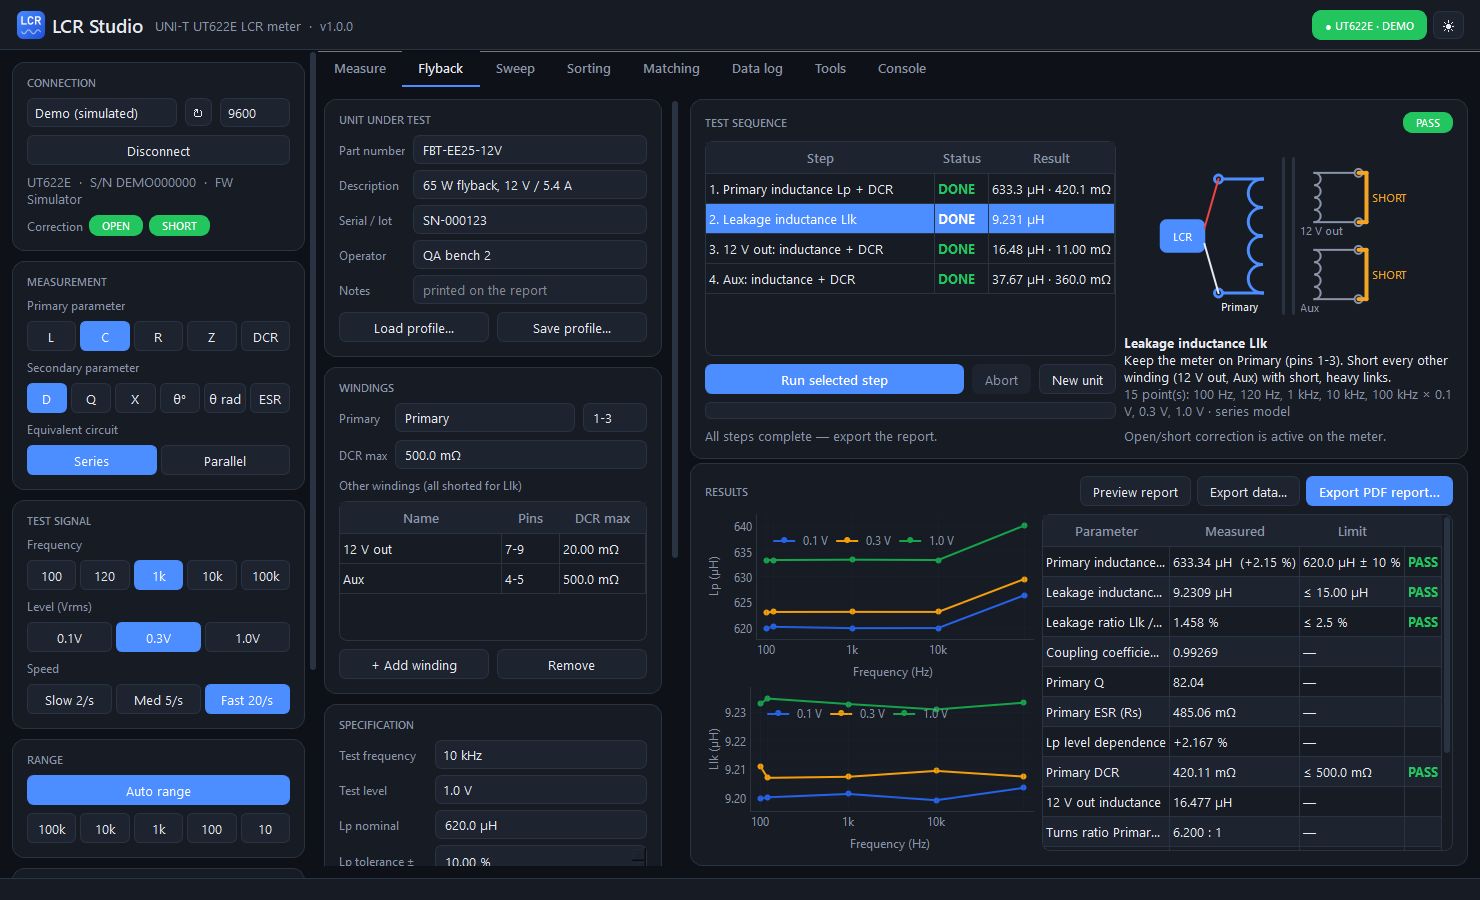
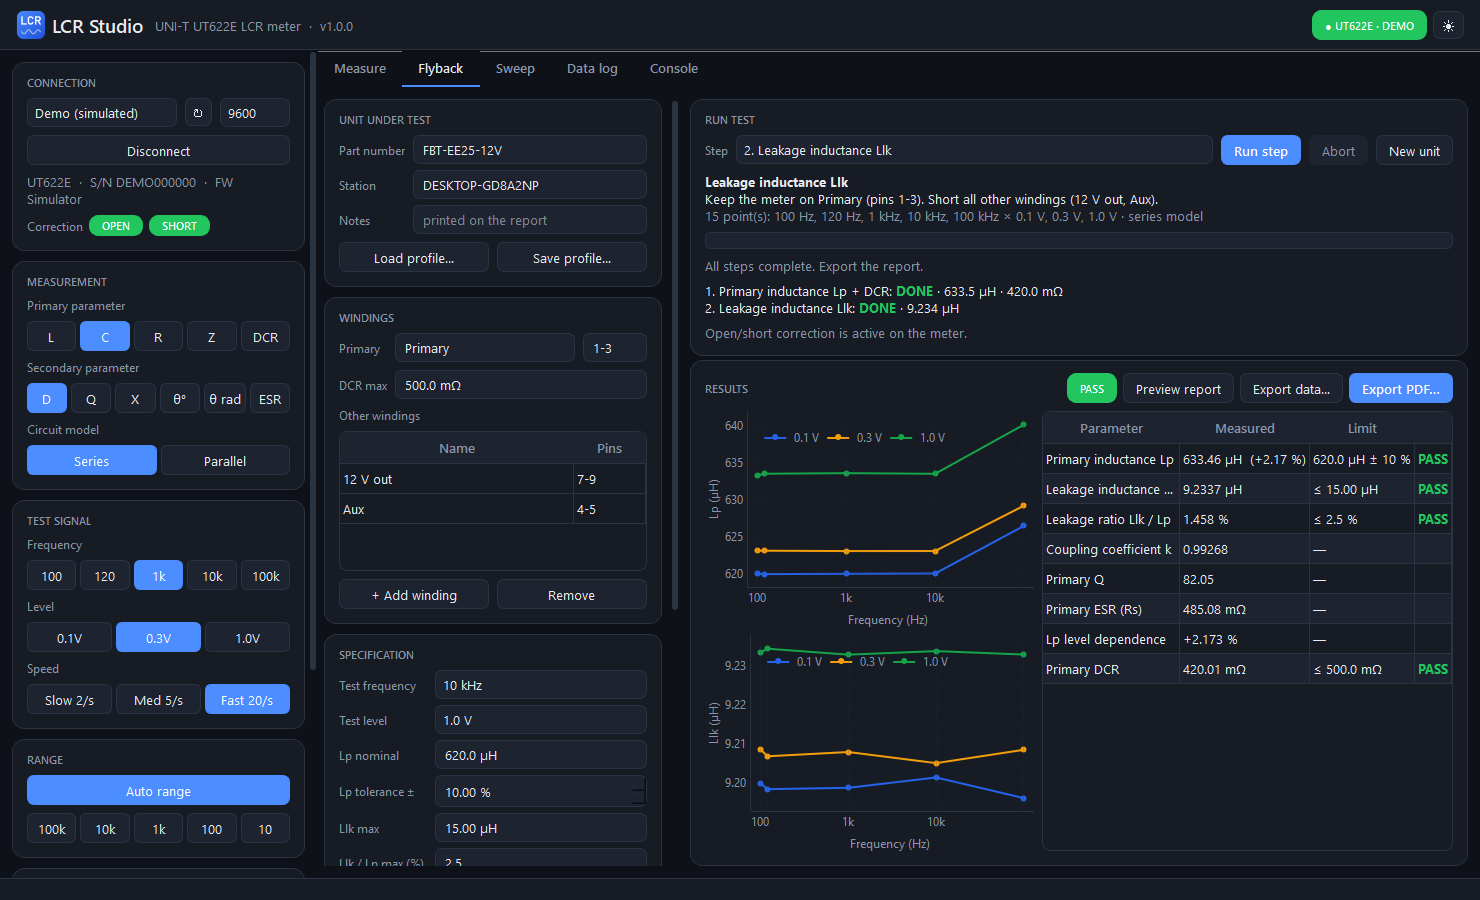
Simplify user-facing wording and refresh screenshots
Shorter labels, tooltips and status messages throughout: no SCPI
mnemonics in the sidebar, "Circuit model" instead of "Equivalent
circuit", "Measure once" for the single trigger, "Derived parameters"
on the Measure tab, plain one-line hints on the Flyback and Sweep tabs,
and a "Run test" card on the Flyback tab. Drop unused imports and a
dead local, and regenerate the README screenshots for the current UI.

diff --git a/lcr_studio/panels/controls.py b/lcr_studio/panels/controls.py
@@ -2,8 +2,8 @@
 from __future__ import annotations
 
 from PySide6.QtCore import Qt, Signal
-from PySide6.QtWidgets import (QCheckBox, QComboBox, QHBoxLayout, QLabel, QPushButton, QScrollArea,
-                               QVBoxLayout, QWidget)
+from PySide6.QtWidgets import (QCheckBox, QComboBox, QHBoxLayout, QPushButton, QScrollArea, QVBoxLayout,
+                               QWidget)
 
 from ..ut622e import BAUDS, DEMO_PORT, FREQUENCIES, LEVELS, find_ports
 from ..widgets import Badge, Card, Segmented, ask, field_label, muted
@@ -53,8 +53,8 @@ class ControlPanel(QScrollArea):
         corr.addWidget(field_label("Correction"))
         self.open_badge = Badge("OPEN")
         self.short_badge = Badge("SHORT")
-        self.open_badge.setToolTip("Open-circuit correction (performed on the meter)")
-        self.short_badge.setToolTip("Short-circuit correction (performed on the meter)")
+        self.open_badge.setToolTip("Open correction (done on the meter)")
+        self.short_badge.setToolTip("Short correction (done on the meter)")
         corr.addWidget(self.open_badge)
         corr.addWidget(self.short_badge)
         corr.addStretch(1)
@@ -72,7 +72,7 @@ class ControlPanel(QScrollArea):
                                     ("RAD", "θ rad"), ("ESR", "ESR")], columns=6)
         self.secondary.changed.connect(lambda v: self._set(lambda mt: mt.set_secondary(v)))
         m.body.addWidget(self.secondary)
-        m.body.addWidget(field_label("Equivalent circuit"))
+        m.body.addWidget(field_label("Circuit model"))
         self.equ = Segmented([("SER", "Series"), ("PAR", "Parallel")])
         self.equ.changed.connect(lambda v: self._set(lambda mt: mt.set_equivalent(v)))
         m.body.addWidget(self.equ)
@@ -84,7 +84,7 @@ class ControlPanel(QScrollArea):
         self.freq = Segmented([(f, f.replace("Hz", "")) for f in FREQUENCIES])
         self.freq.changed.connect(lambda v: self._set(lambda mt: mt.set_frequency(v)))
         s.body.addWidget(self.freq)
-        s.body.addWidget(field_label("Level (Vrms)"))
+        s.body.addWidget(field_label("Level"))
         self.level = Segmented(LEVELS)
         self.level.changed.connect(lambda v: self._set(lambda mt: mt.set_level(v)))
         s.body.addWidget(self.level)
@@ -101,7 +101,7 @@ class ControlPanel(QScrollArea):
         self.range_auto.clicked.connect(lambda on: self._set(lambda mt: mt.set_range_auto(on)))
         r.body.addWidget(self.range_auto)
         self.range = Segmented([(0, "100k"), (1, "10k"), (2, "1k"), (3, "100"), (4, "10")])
-        self.range.setToolTip("Range resistor in Ω — selecting one holds the range")
+        self.range.setToolTip("Hold a fixed range (Ω)")
         self.range.changed.connect(lambda v: self._set(lambda mt: mt.set_range(v)))
         r.body.addWidget(self.range)
         col.addWidget(r)
@@ -111,32 +111,32 @@ class ControlPanel(QScrollArea):
         self.trigger = Segmented([("AUTO", "Continuous"), ("MAN", "Single")])
         self.trigger.changed.connect(lambda v: self._set(lambda mt: mt.set_trigger_auto(v == "AUTO")))
         t.body.addWidget(self.trigger)
-        self.trig_btn = QPushButton("Trigger measurement  (Space)")
+        self.trig_btn = QPushButton("Measure once  (Space)")
         self.trig_btn.setObjectName("Accent")
         self.trig_btn.clicked.connect(self.worker.trigger)
         t.body.addWidget(self.trig_btn)
-        self.sync = QCheckBox("Follow front-panel changes")
+        self.sync = QCheckBox("Follow the meter's keys")
         self.sync.setChecked(True)
-        self.sync.setToolTip("Re-read settings every few seconds so changes made on the meter's keys show up here")
+        self.sync.setToolTip("Pick up settings changed on the meter itself")
         self.sync.toggled.connect(lambda on: setattr(self.worker, "sync_front_panel", on))
         t.body.addWidget(self.sync)
         col.addWidget(t)
 
         # --- front panel
-        f = Card("Instrument")
+        f = Card("Meter")
         row = QHBoxLayout()
         lock = QPushButton("Lock keys")
-        lock.setToolTip("*LLO — lock the meter's keypad (hold power 1 s on the meter to unlock)")
+        lock.setToolTip("Lock the meter's keypad (hold its power key 1 s to unlock)")
         lock.clicked.connect(lambda: self._set(lambda mt: mt.lock_keys(), refresh=False))
         unlock = QPushButton("Unlock keys")
-        unlock.setToolTip("*GTL — return the keypad to local control")
+        unlock.setToolTip("Unlock the meter's keypad")
         unlock.clicked.connect(lambda: self._set(lambda mt: mt.unlock_keys(), refresh=False))
         row.addWidget(lock)
         row.addWidget(unlock)
         f.body.addLayout(row)
-        reset = QPushButton("Reset measurement settings")
+        reset = QPushButton("Reset meter settings")
         reset.setObjectName("Danger")
-        reset.setToolTip("*RST — resets measurement parameters; tolerance and recording modes are turned off")
+        reset.setToolTip("Reset the meter's measurement settings")
         reset.clicked.connect(self._reset)
         f.body.addWidget(reset)
         col.addWidget(f)
@@ -151,8 +151,8 @@ class ControlPanel(QScrollArea):
         self.worker.call(fn, tag="set", refresh=refresh)
 
     def _reset(self):
-        if ask(self, "Reset meter", "Reset the meter's measurement settings (*RST)?\n"
-                                    "Tolerance and recording modes will be turned off."):
+        if ask(self, "Reset meter", "Reset the meter's measurement settings?\n"
+                                    "Tolerance and recording modes on the meter will be turned off."):
             self._set(lambda mt: mt.reset())
 
     def _toggle_connect(self):

diff --git a/lcr_studio/panels/flyback.py b/lcr_studio/panels/flyback.py
@@ -133,7 +133,7 @@ class FlybackPanel(QWidget):
         g.addWidget(field_label("DCR max"), 1, 0)
         g.addWidget(self.pri_dcr, 1, 1, 1, 2)
         wind.body.addLayout(g)
-        wind.body.addWidget(field_label("Other windings (all shorted for Llk)"))
+        wind.body.addWidget(field_label("Other windings"))
         self.sec_table = QTableWidget(0, 2)
         self.sec_table.setHorizontalHeaderLabels(["Name", "Pins"])
         self.sec_table.verticalHeader().hide()
@@ -179,8 +179,7 @@ class FlybackPanel(QWidget):
             g.addWidget(field_label(lab), i, 0)
             g.addWidget(wdg, i, 1)
         spec.body.addLayout(g)
-        spec.body.addWidget(muted("Limits are checked at the test frequency and level. Leave a limit empty to "
-                                  "report the value without pass/fail."))
+        spec.body.addWidget(muted("Leave a limit empty to skip its pass/fail check."))
         col.addWidget(spec)
 
         mat = Card("Test matrix")
@@ -235,11 +234,11 @@ class FlybackPanel(QWidget):
 
     # ============================================================ steps ==
     def _build_steps(self):
-        card = Card("Measurement")
+        card = Card("Run test")
         row = QHBoxLayout()
         row.addWidget(field_label("Step"))
         self.step_pick = QComboBox()
-        self.step_pick.setToolTip("Which measurement to run next on the transformer")
+        self.step_pick.setToolTip("Measurement to run")
         self.step_pick.currentIndexChanged.connect(lambda _i: self._show_step())
         row.addWidget(self.step_pick, 1)
         self.run_btn = QPushButton("Run step")
@@ -267,7 +266,7 @@ class FlybackPanel(QWidget):
         self.step_status = QLabel("")
         self.step_status.setWordWrap(True)
         card.body.addWidget(self.step_status)
-        self.hint = muted("Tip: run open/short correction on the meter with the same leads before testing.")
+        self.hint = muted("Run open/short correction on the meter with the same leads before testing.")
         card.body.addWidget(self.hint)
         return card
 
@@ -278,7 +277,7 @@ class FlybackPanel(QWidget):
         card.header.addWidget(self.verdict_badge)
         prev = QPushButton("Preview report")
         prev.clicked.connect(self.preview)
-        pdf = QPushButton("Export PDF report…")
+        pdf = QPushButton("Export PDF…")
         pdf.setObjectName("Accent")
         pdf.clicked.connect(self.export_pdf)
         xls = QPushButton("Export data…")
@@ -499,17 +498,16 @@ class FlybackPanel(QWidget):
         self.results[key] = result
         self.status[key] = "aborted" if result.get("aborted") else "done"
         self._set_running(False)
-        self.progress_text.setText("Aborted — partial data kept." if result.get("aborted") else "Step complete. "
-                                   "Meter settings restored.")
+        self.progress_text.setText("Aborted. Partial data kept." if result.get("aborted") else "Step complete.")
         self._rebuild_steps()
         self._refresh_results()
         if not result.get("aborted"):
             nxt = next((i for i, s in enumerate(self.steps) if self.status.get(s.key) != "done"), None)
             if nxt is not None:
                 self.step_pick.setCurrentIndex(nxt)
-                self.progress_text.setText(f"Step complete. Rewire for step {nxt + 1} and press Run.")
+                self.progress_text.setText(f"Step complete. Wire up for step {nxt + 1} and press Run.")
             else:
-                self.progress_text.setText("All steps complete — export the report.")
+                self.progress_text.setText("All steps complete. Export the report.")
 
     def on_error(self, tag, msg):
         if tag != self.TAG or not self.running_key:
@@ -579,7 +577,7 @@ class FlybackPanel(QWidget):
             self.meta["correction"] = f"Open {'✓' if st.get('open_corr') else '✗'}   Short {'✓' if st.get('short_corr') else '✗'}"
             ok = st.get("open_corr") and st.get("short_corr")
             self.hint.setText("Open/short correction is active on the meter." if ok else
-                              "⚠ Open/short correction is not active — run it on the meter with the same leads.")
+                              "⚠ Open/short correction is off. Run it on the meter with the same leads.")
 
     def _meta(self):
         return default_meta(station=self.station.text().strip(), notes=self.notes.text().strip(),

diff --git a/lcr_studio/panels/sweep.py b/lcr_studio/panels/sweep.py
@@ -1,12 +1,13 @@
 """Frequency / level sweep with multi-parameter capture and run overlays."""
 from __future__ import annotations
 
+import math
 import statistics
 
 import pyqtgraph as pg
 import pyqtgraph.exporters  # noqa: F401  (registers ImageExporter)
 from PySide6.QtCore import Qt
-from PySide6.QtWidgets import (QCheckBox, QComboBox, QFileDialog, QGridLayout, QHBoxLayout, QLabel,
+from PySide6.QtWidgets import (QCheckBox, QComboBox, QFileDialog, QGridLayout, QHBoxLayout,
                                QLineEdit, QListWidget, QListWidgetItem, QProgressBar, QPushButton,
                                QSpinBox, QSplitter, QTableWidget, QTableWidgetItem, QVBoxLayout, QWidget)
 
@@ -109,7 +110,7 @@ class SweepPanel(QWidget):
             self.level_boxes[lv] = cb
             row.addWidget(cb)
         cfg.body.addLayout(row)
-        cfg.body.addWidget(field_label("Secondary parameters to capture"))
+        cfg.body.addWidget(field_label("Also record"))
         self.sec_boxes = {}
         g = QGridLayout()
         for i, (s, label) in enumerate(SWEEP_SECONDARIES):
@@ -123,7 +124,7 @@ class SweepPanel(QWidget):
         self.settle = QSpinBox()
         self.settle.setRange(0, 20)
         self.settle.setValue(2)
-        self.settle.setToolTip("Readings discarded after every change so the meter can settle / auto-range")
+        self.settle.setToolTip("Readings to discard after each change")
         self.navg = QSpinBox()
         self.navg.setRange(1, 100)
         self.navg.setValue(5)
@@ -154,7 +155,7 @@ class SweepPanel(QWidget):
         self.bar = QProgressBar()
         self.bar.setTextVisible(False)
         cfg.body.addWidget(self.bar)
-        self.status = muted("Primary parameter and equivalent circuit come from the current meter setup.")
+        self.status = muted("Uses the meter's current parameter and circuit model.")
         cfg.body.addWidget(self.status)
         left.addWidget(cfg)
 
@@ -192,7 +193,6 @@ class SweepPanel(QWidget):
         self.pplot = make_plot("Primary", "", "Frequency", "Hz", log_x=True)
         self.splot = make_plot("Secondary", "", "Frequency", "Hz", log_x=True)
         self.splot.setXLink(self.pplot)
-        import math
         ticks = [[(math.log10(FREQ_HZ[f]), f.replace("Hz", "")) for f in FREQUENCIES if f != "120Hz"],
                  [(math.log10(120), "")]]
         for plot in (self.pplot, self.splot):
@@ -273,8 +273,7 @@ class SweepPanel(QWidget):
         run.update(ptype=result["ptype"], equ=result["equ"], rows=result["rows"])
         self.abort_btn.setEnabled(False)
         self.run_btn.setEnabled(self.connected)
-        self.status.setText(("Aborted — partial data kept." if result["aborted"] else "Sweep complete.")
-                            + " Settings restored.")
+        self.status.setText("Aborted. Partial data kept." if result["aborted"] else "Sweep complete.")
         if run["rows"]:
             self._add_run(run)
 

diff --git a/lcr_studio/panels/measure.py b/lcr_studio/panels/measure.py
@@ -140,7 +140,7 @@ class MeasurePanel(QWidget):
         self.hold.setToolTip("Freeze the readout; logging and charts continue")
         self.rel = QPushButton("Relative  (R)")
         self.rel.setCheckable(True)
-        self.rel.setToolTip("Use the current reading as reference and show the deviation from it")
+        self.rel.setToolTip("Show the change from the current reading")
         self.rel.toggled.connect(self._toggle_rel)
         snap = QPushButton("Snapshot to log  (S)")
         snap.clicked.connect(lambda: self.last and self.snapshot.emit(self.last))
@@ -152,7 +152,7 @@ class MeasurePanel(QWidget):
         return card
 
     def _build_derived(self):
-        card = Card("Equivalent circuit (derived)")
+        card = Card("Derived parameters")
         self.derived_note = muted("")
         card.body.addWidget(self.derived_note)
         grid = QGridLayout()
@@ -332,8 +332,8 @@ class MeasurePanel(QWidget):
         if z is None:
             for v in self.derived.values():
                 v.setText("—")
-            self.derived_note.setText("Needs L/C with D, Q, θ or ESR — or R/Z with X or θ." if r.ptype != "DCR"
-                                      else "Not available in DC resistance mode.")
+            self.derived_note.setText("Not available for DCR." if r.ptype == "DCR"
+                                      else "Not available for this parameter pair.")
         else:
             params = params_from_z(z, f)
             for k, lab in self.derived.items():

diff --git a/lcr_studio/panels/console.py b/lcr_studio/panels/console.py
@@ -5,8 +5,7 @@ import datetime as dt
 
 from PySide6.QtCore import Qt
 from PySide6.QtGui import QFont, QTextCursor
-from PySide6.QtWidgets import (QCheckBox, QHBoxLayout, QLineEdit, QListWidget, QPlainTextEdit, QPushButton,
-                               QVBoxLayout, QWidget)
+from PySide6.QtWidgets import QCheckBox, QHBoxLayout, QLineEdit, QListWidget, QPlainTextEdit, QPushButton, QWidget
 
 from ..theme import pick_font, theme
 from ..widgets import Card, muted
@@ -50,7 +49,7 @@ class ConsolePanel(QWidget):
         row = QHBoxLayout()
         self.cmd = QLineEdit()
         self.cmd.setFont(f)
-        self.cmd.setPlaceholderText("Type a command, e.g. FREQ 10kHz or FREQ?  —  ↑/↓ for history")
+        self.cmd.setPlaceholderText("Command, e.g. FREQ?   (↑/↓ = history)")
         self.cmd.returnPressed.connect(self.send)
         self.cmd.installEventFilter(self)
         send = QPushButton("Send")
@@ -68,7 +67,7 @@ class ConsolePanel(QWidget):
             self.quick.addItem(f"{cmd}    — {desc}")
         self.quick.itemDoubleClicked.connect(lambda it: (self.cmd.setText(it.text().split()[0]), self.send()))
         self.quick.itemClicked.connect(lambda it: self.cmd.setText(it.text().split()[0]))
-        qc.body.addWidget(muted("Click to insert, double-click to send. Full reference: PROTOCOL.md"))
+        qc.body.addWidget(muted("Click to insert, double-click to send."))
         qc.body.addWidget(self.quick, 1)
         root.addWidget(qc)
 

diff --git a/lcr_studio/flyback.py b/lcr_studio/flyback.py
@@ -89,7 +89,7 @@ def build_steps(p: FlybackProfile) -> list[Step]:
              f"Clip the meter to {pri}. Leave all other windings ({others}) open.",
              "PRI_OPEN", -1, [], p.lp_equ, freqs, levels, True),
         Step("llk", "Leakage inductance Llk",
-             f"Keep the meter on {pri}. Short every other winding ({others}) with short, heavy links.",
+             f"Keep the meter on {pri}. Short all other windings ({others}).",
              "PRI_SHORT", -1, list(range(len(p.secondaries))), p.llk_equ, freqs, levels, False),
     ]
 
@@ -110,8 +110,7 @@ def run_step(meter, ctx, step: Step, settle: int, navg: int) -> dict:
     """Worker-thread job: measure L and Q over the step's matrix (+ DCR), then restore the meter."""
     st0 = meter.read_settings(full=True)
     if st0.get("comp"):
-        raise ValueError("Turn off the meter's tolerance mode first (TOL key on the meter, or send COMP OFF from the "
-                         "Console tab) — it blocks function changes.")
+        raise ValueError("Turn off tolerance mode on the meter first.")
     if hasattr(meter, "set_fixture"):
         meter.set_fixture(step.fixture)          # simulator only
     get = meter.fetch if st0.get("trigger") == "AUTO" else meter.trigger_fetch

diff --git a/lcr_studio/report.py b/lcr_studio/report.py
@@ -117,12 +117,10 @@ def chart(cv: Canvas, x, y, w, h, title, series, unit, xs_kind="freq", logy=Fals
     y0, y1 = ticks[0], ticks[-1]
 
     if xs_kind == "freq":
-        cats = [FREQ_HZ[f] for f in FREQUENCIES]
         xl0, xl1 = math.log10(80), math.log10(125e3)
         xmap = lambda v: px + (math.log10(v) - xl0) / (xl1 - xl0) * pw
         xticks = [(FREQ_HZ[f], f.replace("Hz", "")) for f in FREQUENCIES if f != "120Hz"]
     else:
-        cats = LEVELS
         xmap = lambda v: px + (LEVELS.index(v) + 0.5) / len(LEVELS) * pw
         xticks = [(lv, v_label(lv)) for lv in LEVELS]
     ymap = lambda v: py + ph - (v - y0) / (y1 - y0) * ph

diff --git a/tests/test_flyback.py b/tests/test_flyback.py
@@ -78,7 +78,7 @@ def test_incomplete_when_steps_missing(measured):
 
 
 def test_pdf_is_one_letter_page(measured, tmp_path):
-    _app = QApplication.instance() or QApplication([])
+    _app = QApplication.instance() or QApplication([])   # noqa: F841 (keeps the app alive)
     _, p, results = measured
     out = tmp_path / "r.pdf"
     export_pdf(str(out), p, results, default_meta(station="S1", meter="UT622E"))

diff --git a/lcr_studio/panels/logger.py b/lcr_studio/panels/logger.py
@@ -94,7 +94,7 @@ class LogPanel(QWidget):
         row.addWidget(self.interval)
         row.addWidget(field_label("Note"))
         self.note = QLineEdit()
-        self.note.setPlaceholderText("Tag for the next rows, e.g. part number or condition")
+        self.note.setPlaceholderText("Note for new rows")
         row.addWidget(self.note, 1)
         ctl.body.addLayout(row)
         row = QHBoxLayout()

diff --git a/packaging/make_icon.py b/packaging/make_icon.py
@@ -4,7 +4,7 @@ import sys
 from pathlib import Path
 
 from PIL import Image
-from PySide6.QtCore import QPointF, QRectF, Qt
+from PySide6.QtCore import QRectF, Qt
 from PySide6.QtGui import QColor, QFont, QGuiApplication, QImage, QLinearGradient, QPainter, QPainterPath, QPen
 
 ROOT = Path(__file__).resolve().parent.parent

diff --git a/README.md b/README.md
@@ -52,7 +52,7 @@ serial port), start LCR Studio, and it connects automatically.
 
 - Large readout with SI prefixes, overload (`OL`) detection and PASS/FAIL from the meter's comparator.
 - **Hold** and **Relative** (Δ and Δ% against a captured reference).
-- **Derived equivalent circuit**, calculated from every reading: |Z|, θ, Rs (ESR), Rp, Xs, Xp, Cs, Cp, Ls, Lp, D, Q.
+- **Derived parameters**, calculated from every reading: |Z|, θ, Rs (ESR), Rp, Xs, Xp, Cs, Cp, Ls, Lp, D, Q.
 - Trend charts for primary and secondary values, a live histogram and statistics (mean, σ, σ %, min, max, p-p, rate).
 - Every meter setting in the sidebar: L / C / R / Z / DCR, D / Q / X / θ° / θ rad / ESR, series / parallel,
   100 Hz – 100 kHz, 0.1 / 0.3 / 1.0 V, slow / medium / fast, auto or held range, continuous or single
@@ -132,7 +132,7 @@ cover. The full command set is documented in [PROTOCOL.md](PROTOCOL.md).
 
 | Key | Action |
 |---|---|
-| <kbd>Space</kbd> | Trigger a measurement (single-trigger mode) |
+| <kbd>Space</kbd> | Measure once (single trigger mode) |
 | <kbd>H</kbd> | Hold the readout |
 | <kbd>R</kbd> | Relative mode on/off |
 | <kbd>S</kbd> | Snapshot the current reading into the data log |
